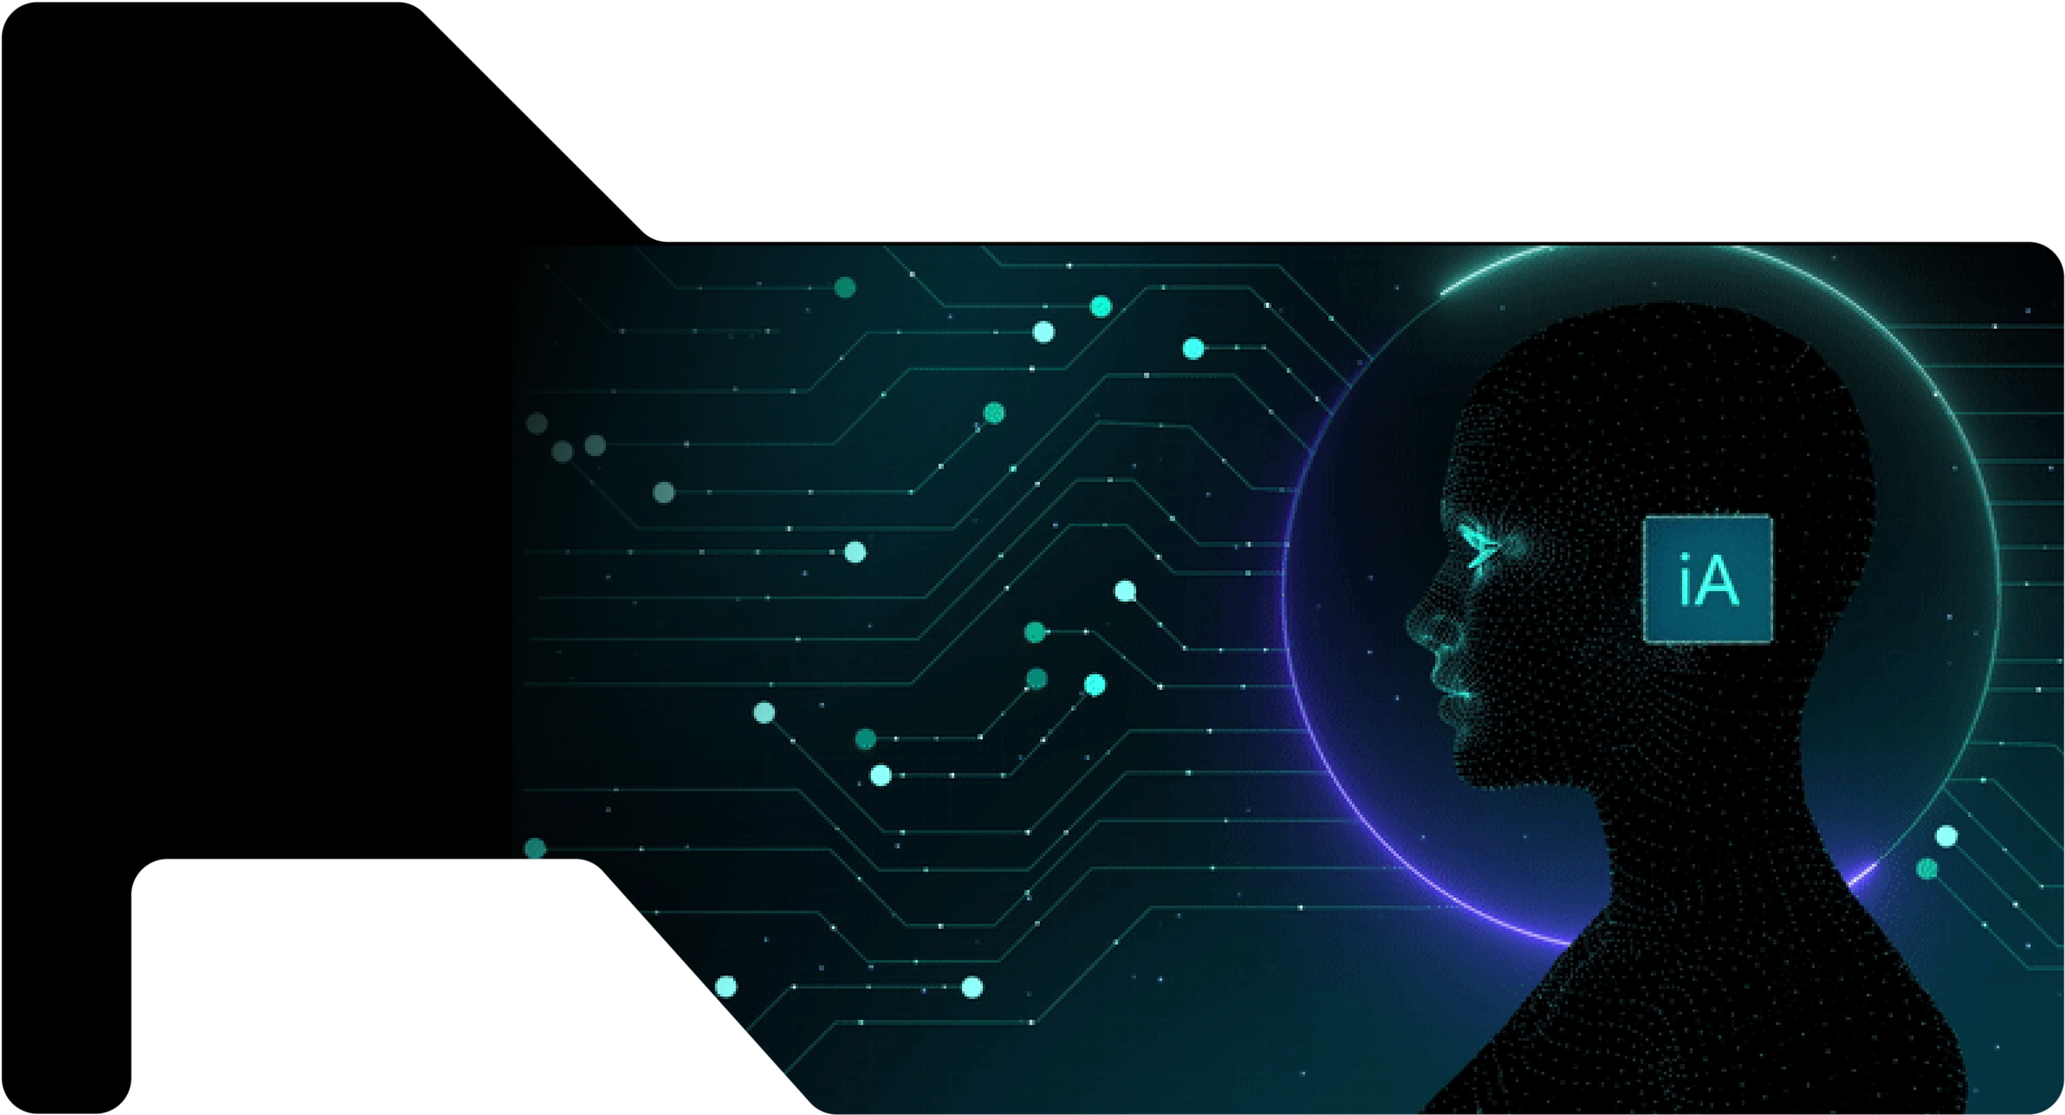
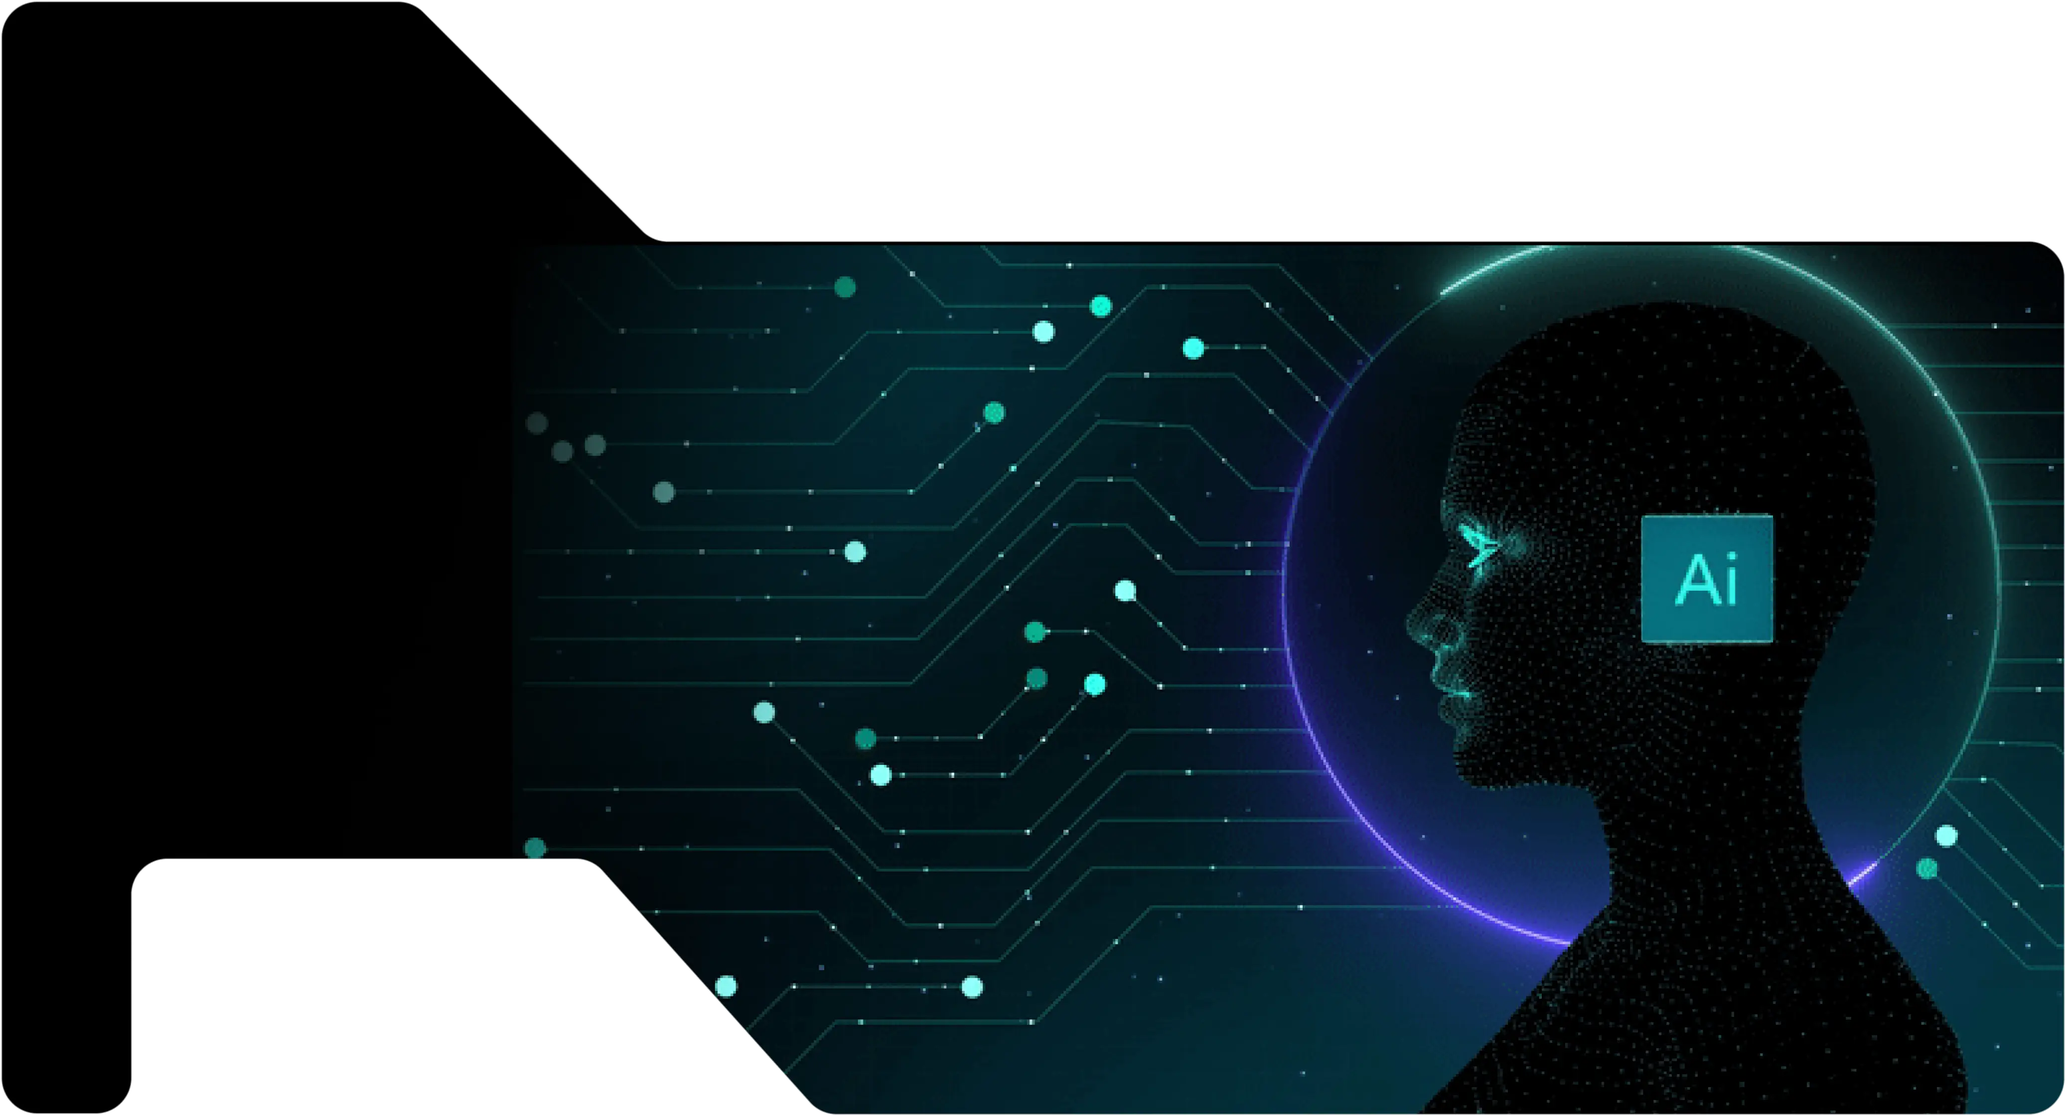
herosection img change

Changed region(s): [[0.7782, 0.4623, 0.8405, 0.5855]]

diff --git a/src/components/TokenE.jsx b/src/components/TokenE.jsx
@@ -11,7 +11,7 @@ const TokenE = () => {
       <div className=" absolute right-0 bottom-0 z-[-1] max-w-[40px] sm:max-w-[60px]  ">
         <img src={BlockChainEllips} alt="img" />
       </div>
-      <div className="bg-[#02CDCF] w-[228px] h-[140px]  lg:h-[160px]  absolute left-[-10%] bottom-0 blur-[180px] z-[-1] "></div>
+      <div className="bg-[#02CDCF] w-[228px] h-[140px]  lg:h-[140px]  absolute left-[-10%] bottom-0 blur-[185px] z-[-1] "></div>
       <div className="bg-[#02CDCF] w-[200px] h-[140px]  lg:h-[160px]  absolute right-0 top-[35%] blur-[180px] z-[-1] "></div>
       <div className="bg-[#02CDCF] w-[200px] h-[140px]  lg:h-[160px]  absolute right-0 bottom-[-10%] blur-[180px] z-[-2] hidden  sm:block"></div>
       <div className="max-w-[1320px] px-3 mx-auto pb-0 pt-12 sm:pt-16  lg:py-20">
@@ -30,7 +30,7 @@ const TokenE = () => {
           </div>
           <div className="w-full md:w-6/12 px-3 ">
             <div className="relative overflow-y-scroll overflow_hidden h-[529px] ">
-              <div className=" absolute max-[400px]:left-[-2%] left-[3.3%] md:left-[5%] lg:left-[3.35%] xl:left-0 top-0 bottom-0 rounded-xl bg-[#02CDCF] w-2 max-[350px]:h-[1980px] max-[450px]:h-[1740px] h-[1000px] sm:h-[1250px] md:h-[1700px]  xl:h-[1300px] ms-4"></div>
+              <div className=" absolute max-[400px]:left-[-2%] left-[3.3%] md:left-[6%] lg:left-[3.35%] xl:left-0 top-0 bottom-0 rounded-xl bg-[#02CDCF] w-2 max-[350px]:h-[1980px] max-[450px]:h-[1740px] h-[1000px] sm:h-[1250px] md:h-[1900px]  xl:h-[1250px] ms-4"></div>
               <div className="max-[400px]:ps-16 ps-20 ">
                 {" "}
                 <h3 className=" ff-Recharge font-bold text-lg sm:text-xl md:text-2xl text-white leading-[24px] sm:leading-[31.2px] hover:text-[#02CDCF] duration-300 ">
@@ -45,15 +45,14 @@ const TokenE = () => {
                   convenience and flexibility of a token-based payment system.
                 </p>
                 <h3 className=" ff-Recharge font-bold text-lg sm:text-xl md:text-2xl text-white leading-[24px] sm:leading-[31.2px] pt-12 md:pt-16 hover:text-[#02CDCF] duration-300">
-                  Purchasing Nexai Products
+                  Accessing Exclusive Content
                 </h3>
                 <p className=" font-Poppins font-normal text-sm sm:text-base text-[#B4B9B9] leading-[22px] sm:leading-[25.6px]  pt-4 relative before:top-[41%] max-[435px]:before:left-[-60px] before:left-[-53px] sm:before:left-[-50px] lg:before:left-[-57px]  xl:before:left-[-13%] before:absolute before:w-6 before:h-6 before:rounded-2xl before:bg-white before:z-10 hover:before:bg-[#B4B4B4] before:duration-300 ">
-                  Nex AI tokens will be the primary currency for acquiring
-                  Nexai's extensive range of software solutions, hardware
-                  devices, including drones and sensors, and other smart home
-                  products available on the Nexai marketplace. Users can
-                  confidently make purchases using Nex tokens, enjoying the
-                  convenience and flexibility of a token-based payment system.
+                  By holding Nex AI tokens, users will gain privileged access to
+                  exclusive content within the Nexai platform. These tokens will
+                  unlock premium features, advanced functionalities, and
+                  specialized services, enabling users to fully explore and
+                  enjoy the enhanced capabilities of Nexai's ecosystem.
                 </p>
                 <h3 className=" ff-Recharge font-bold text-lg sm:text-xl md:text-2xl text-white leading-[24px] sm:leading-[31.2px] pt-12 md:pt-16 hover:text-[#02CDCF] duration-300">
                   Purchasing Nexai Products
@@ -67,15 +66,14 @@ const TokenE = () => {
                   convenience and flexibility of a token-based payment system.
                 </p>
                 <h3 className=" ff-Recharge font-bold text-lg sm:text-xl md:text-2xl text-white leading-[24px] sm:leading-[31.2px] pt-12 md:pt-16 hover:text-[#02CDCF] duration-300">
-                  Purchasing Nexai Products
+                  Accessing Exclusive Content
                 </h3>
                 <p className=" font-Poppins font-normal text-sm sm:text-base text-[#B4B9B9] leading-[22px] sm:leading-[25.6px]  pt-4 relative before:top-[41%] max-[435px]:before:left-[-60px] before:left-[-53px] sm:before:left-[-50px] lg:before:left-[-57px]  xl:before:left-[-13%] before:absolute before:w-6 before:h-6 before:rounded-2xl before:bg-white before:z-10 hover:before:bg-[#B4B4B4] before:duration-300">
-                  Nex AI tokens will be the primary currency for acquiring
-                  Nexai's extensive range of software solutions, hardware
-                  devices, including drones and sensors, and other smart home
-                  products available on the Nexai marketplace. Users can
-                  confidently make purchases using Nex tokens, enjoying the
-                  convenience and flexibility of a token-based payment system.
+                  By holding Nex AI tokens, users will gain privileged access to
+                  exclusive content within the Nexai platform. These tokens will
+                  unlock premium features, advanced functionalities, and
+                  specialized services, enabling users to fully explore and
+                  enjoy the enhanced capabilities of Nexai's ecosystem.
                 </p>
                 <h3 className=" ff-Recharge font-bold text-lg sm:text-xl md:text-2xl text-white leading-[24px] sm:leading-[31.2px] pt-12 md:pt-16 hover:text-[#02CDCF] duration-300 ">
                   Purchasing Nexai Products

diff --git a/src/components/Features.jsx b/src/components/Features.jsx
@@ -1,5 +1,5 @@
 import React from "react";
-import { Clock, ClockPlus } from "./common/SvgExport";
+import { Clock, ClockPlus, FeatureseSvg, Message } from "./common/SvgExport";
 const Features = () => {
   return (
     <div id="Features" className="px-3 lg:px-12 py-12 sm:py-16  md:py-20">
@@ -11,7 +11,7 @@ const Features = () => {
           ability to engage in natural, fluent conversations in over 15
           languages,
         </p>
-        <div className="flex flex-row flex-wrap -mx-3 overflow-y-scroll overflow_hidden max-h-[500px]  pt-7 sm:pt-9 md:pt-12">
+        <div className="flex flex-row flex-wrap -mx-3 overflow-y-scroll overflow_hidden max-h-[500px] pt-7 sm:pt-9 md:pt-12">
           <div className="w-full lg:w-6/12 px-3 ">
             {" "}
             <div className=" group cursor-pointer max-w-[364px] bg-white rounded-2xl p-4 sm:p-6 md:p-[30px_24px_56px_24px] mx-auto lg:mx-0">
@@ -32,17 +32,16 @@ const Features = () => {
             <div className="h-[150px] md:h-[270px]"></div>
             <div className="group cursor-pointer max-w-[364px] bg-white rounded-2xl p-4 sm:p-6 md:p-[30px_24px_56px_24px] mx-auto lg:mx-0">
               <div>
-                <Clock />
+                <Message />
               </div>
               <h3 className=" ff-Recharge font-bold text-[#0B0A0A]  text-base sm:text-lg md:text-xl leading-[25px] md:leading-[32px] pt-4 sm:pt-[30px] group-hover:text-[#02CDCF] duration-300">
-                Remote Access and File Management
+                Autonomous and Natural Language Communication
               </h3>
               <p className=" font-Poppins font-normal text-black text-sm sm:text-base leading-[22px] sm:leading-[25.6px] opacity-70 pt-[10px]">
                 {" "}
-                Imagine you're at work, and you realize you forgot to bring an
-                important file stored on your desktop computer at home. No
-                worries! Simply open the Nexai app on your phone, initiate a
-                call with Nexai, and request access to your computer.{" "}
+                Nexai goes beyond standard home assistants by taking proactive
+                initiatives and engaging in natural language conversations. It
+                communicates with you as if you're talking to a friend,
               </p>
             </div>{" "}
             <div className="h-[200px] md:h-[270px]"></div>
@@ -69,7 +68,8 @@ const Features = () => {
                 <ClockPlus />
               </div>
               <h3 className=" ff-Recharge font-bold text-[#0B0A0A]  text-base sm:text-lg md:text-xl leading-[25px] md:leading-[32px] pt-4 sm:pt-[30px] group-hover:text-[#02CDCF] duration-300">
-                Real-time Home Monitoring{" "}
+                {" "}
+                Real-time Home Monitoring
               </h3>
               <p className=" font-Poppins font-normal text-black text-sm sm:text-base leading-[22px] sm:leading-[25.6px] opacity-70 pt-[10px]">
                 While you're out with your family, you may wonder if you
@@ -82,17 +82,18 @@ const Features = () => {
             <div className="h-[150px] md:h-[270px]"></div>
             <div className=" group cursor-pointer max-w-[364px] bg-white rounded-2xl p-4 sm:p-6 md:p-[30px_24px_56px_24px] mx-auto lg:me-0 lg:ms-auto">
               <div>
-                <ClockPlus />
+                <FeatureseSvg />
               </div>
               <h3 className=" ff-Recharge font-bold text-[#0B0A0A]  text-base sm:text-lg md:text-xl leading-[25px] md:leading-[32px] pt-4 sm:pt-[30px] group-hover:text-[#02CDCF] duration-300">
-                Real-time Home Monitoring{" "}
+                Intelligent Contextual Awareness
               </h3>
               <p className=" font-Poppins font-normal text-black text-sm sm:text-base leading-[22px] sm:leading-[25.6px] opacity-70 pt-[10px]">
-                While you're out with your family, you may wonder if you
-                remembered to turn off the stove. Thanks to Nexai, this is no
-                longer a concern. Using the Nexai app, you can initiate a video
-                call with Nexai and activate the mini drone stationed in your
-                home.
+                {" "}
+                Nexai utilizes the hardware sensors placed throughout your home
+                to understand your location and deliver relevant information or
+                actions. For instance, if you're in the bedroom and there's a
+                smart TV present, Nexai will automatically display on the TV
+                screen.
               </p>
             </div>
           </div>

diff --git a/src/components/Footer.jsx b/src/components/Footer.jsx
@@ -38,13 +38,13 @@ const Footer = () => {
           <div className="w-full md:w-5/12 px-3  pt-6 md:pt-0">
             <div className="flex flex-row flex-wrap -mx-3">
               <div className="w-6/12 px-3">
-                <p className="ff-Recharge font-bold text-base sm:text-lg text-white leading-[21.6px]">
+                <p className="ff-Recharge font-bold text-base sm:text-[17px] lg:text-lg text-white leading-[21.6px]">
                   Quick links
                 </p>
                 <ul>
                   <li className="pt-3 sm:pt-5">
                     <a
-                      href="#!"
+                      href="#Home"
                       className="ff-Recharge font-bold text-sm sm:text-base text-white leading-[21.6px] opacity-70 border-transparent border-y-[1px] rounded-sm hover:border-[#02CDCF] duration-300 ease-linear hover:text-[#02CDCF] py-1 "
                     >
                       Home
@@ -52,7 +52,7 @@ const Footer = () => {
                   </li>
                   <li className="pt-3 sm:pt-5">
                     <a
-                      href="#!"
+                      href="#Features"
                       className="ff-Recharge font-bold text-sm sm:text-base text-white leading-[21.6px] opacity-70 border-transparent border-y-[1px] rounded-sm hover:border-[#02CDCF] duration-300 ease-linear hover:text-[#02CDCF] py-1"
                     >
                       Features
@@ -60,7 +60,7 @@ const Footer = () => {
                   </li>
                   <li className="pt-3 sm:pt-5">
                     <a
-                      href="#!"
+                      href="#MarketPlace"
                       className="ff-Recharge font-bold text-sm sm:text-base text-white leading-[21.6px] opacity-70 border-transparent border-y-[1px] rounded-sm hover:border-[#02CDCF] duration-300 ease-linear hover:text-[#02CDCF] py-1"
                     >
                       Marketplace
@@ -68,7 +68,7 @@ const Footer = () => {
                   </li>
                   <li className="pt-3 sm:pt-5">
                     <a
-                      href="#!"
+                      href="#Token"
                       className="ff-Recharge font-bold text-sm sm:text-base text-white leading-[21.6px] opacity-70 border-transparent border-y-[1px] rounded-sm hover:border-[#02CDCF] duration-300 ease-linear hover:text-[#02CDCF] py-1"
                     >
                       Tokens
@@ -76,7 +76,7 @@ const Footer = () => {
                   </li>
                   <li className="pt-3 sm:pt-5">
                     <a
-                      href="#!"
+                      href="#AndMore"
                       className="ff-Recharge font-bold text-sm sm:text-base text-white leading-[21.6px] opacity-70 border-transparent border-y-[1px] rounded-sm hover:border-[#02CDCF] duration-300 ease-linear hover:text-[#02CDCF] py-1"
                     >
                       NexChat
@@ -84,7 +84,7 @@ const Footer = () => {
                   </li>
                   <li className="pt-3 sm:pt-5">
                     <a
-                      href="#!"
+                      href="#About"
                       className="ff-Recharge font-bold text-sm sm:text-base text-white leading-[21.6px] opacity-70 border-transparent border-y-[1px] rounded-sm hover:border-[#02CDCF] duration-300 ease-linear hover:text-[#02CDCF] py-1"
                     >
                       About
@@ -93,7 +93,7 @@ const Footer = () => {
                 </ul>
               </div>
               <div className="w-6/12 px-3">
-                <p className="ff-Recharge font-bold text-base sm:text-lg text-white leading-[21.6px]">
+                <p className="ff-Recharge font-bold text-base sm:text-[17px] lg:text-lg text-white leading-[21.6px]">
                   Information's
                 </p>
                 <ul>

diff --git a/src/components/common/SvgExport.jsx b/src/components/common/SvgExport.jsx
@@ -85,6 +85,41 @@ export const Clock = () => {
     </svg>
   );
 };
+export const Message = () => {
+  return (
+    <svg
+      width="51"
+      height="46"
+      viewBox="0 0 51 46"
+      fill="none"
+      xmlns="http://www.w3.org/2000/svg"
+    >
+      <path
+        className=" group-hover:stroke-[#02CDCF] duration-300"
+        d="M35.6242 39.5715H23.249V30.4287H38.9993V21.2859H47.9994V39.5715H42.3743L38.9993 43L35.6242 39.5715Z"
+        stroke="black"
+        strokeWidth="4.57138"
+        strokeLinecap="round"
+        strokeLinejoin="round"
+      />
+      <path
+        className=" group-hover:stroke-[#02CDCF] duration-300"
+        d="M3 3H39.0006V30.4283H17.6252L13.1252 34.9997L8.6251 30.4283H3V3Z"
+        stroke="black"
+        strokeWidth="4.57138"
+        strokeLinecap="round"
+        strokeLinejoin="round"
+      />
+      <path
+        className=" group-hover:stroke-[#02CDCF] duration-300"
+        d="M19.8756 16.7145H21.0006M27.7508 16.7145H28.8758M12.0005 16.7145H13.1255"
+        stroke="black"
+        strokeWidth="4.57138"
+        strokeLinecap="round"
+      />
+    </svg>
+  );
+};
 export const ClockPlus = () => {
   return (
     <svg
@@ -108,6 +143,26 @@ export const ClockPlus = () => {
         className=" group-hover:fill-[#02CDCF] duration-300"
         d="M36.355 6.60566V0.207031H31.9251V6.60566H25.2801V10.8714H31.9251V17.27H36.355V10.8714H43V6.60566H36.355Z"
         fill="black"
+      />
+    </svg>
+  );
+};
+export const FeatureseSvg = () => {
+  return (
+    <svg
+      width="44"
+      height="44"
+      viewBox="0 0 44 44"
+      fill="none"
+      xmlns="http://www.w3.org/2000/svg"
+    >
+      <path
+        className=" group-hover:stroke-[#02CDCF] duration-300"
+        d="M17.5556 6.44444L22 2M13.1111 30.8889L30.8889 13.1111M22 42L26.4444 37.5556M32 37.5556C33.4734 37.5556 34.8865 36.9702 35.9284 35.9284C36.9702 34.8865 37.5556 33.4734 37.5556 32C37.5556 30.5266 36.9702 29.1135 35.9284 28.0716C34.8865 27.0298 33.4734 26.4444 32 26.4444C30.5266 26.4444 29.1135 27.0298 28.0716 28.0716C27.0298 29.1135 26.4444 30.5266 26.4444 32C26.4444 33.4734 27.0298 34.8865 28.0716 35.9284C29.1135 36.9702 30.5266 37.5556 32 37.5556ZM12 17.5556C13.4734 17.5556 14.8865 16.9702 15.9284 15.9284C16.9702 14.8865 17.5556 13.4734 17.5556 12C17.5556 10.5266 16.9702 9.1135 15.9284 8.07163C14.8865 7.02976 13.4734 6.44444 12 6.44444C10.5266 6.44444 9.1135 7.02976 8.07163 8.07163C7.02976 9.1135 6.44444 10.5266 6.44444 12C6.44444 13.4734 7.02976 14.8865 8.07163 15.9284C9.1135 16.9702 10.5266 17.5556 12 17.5556ZM7.55556 42C9.02898 42 10.4421 41.4147 11.4839 40.3728C12.5258 39.3309 13.1111 37.9179 13.1111 36.4444C13.1111 34.971 12.5258 33.5579 11.4839 32.5161C10.4421 31.4742 9.02898 30.8889 7.55556 30.8889C6.08213 30.8889 4.66905 31.4742 3.62718 32.5161C2.58532 33.5579 2 34.971 2 36.4444C2 37.9179 2.58532 39.3309 3.62718 40.3728C4.66905 41.4147 6.08213 42 7.55556 42ZM36.4444 13.1111C37.9179 13.1111 39.3309 12.5258 40.3728 11.4839C41.4147 10.4421 42 9.02898 42 7.55556C42 6.08213 41.4147 4.66905 40.3728 3.62718C39.3309 2.58532 37.9179 2 36.4444 2C34.971 2 33.5579 2.58532 32.5161 3.62718C31.4742 4.66905 30.8889 6.08213 30.8889 7.55556C30.8889 9.02898 31.4742 10.4421 32.5161 11.4839C33.5579 12.5258 34.971 13.1111 36.4444 13.1111Z"
+        stroke="black"
+        strokeWidth="3.55556"
+        strokeLinecap="round"
+        strokeLinejoin="round"
       />
     </svg>
   );

diff --git a/src/components/Powered.jsx b/src/components/Powered.jsx
@@ -9,7 +9,7 @@ const Powered = () => {
           <div className="w-full md:w-6/12 px-3 lg:pe-[38px]">
             <div data-aos="zoom-in" className="max-w-[612px] mx-auto relative">
               <img className="w-full" src={poweredImg} alt="powered" />
-              <div className="bg-[#02CDCF] w-[228px] h-[140px]  lg:h-[160px]  absolute right-[20%] top-[40%] blur-[170px] z-[-1] "></div>
+              <div className="bg-[#02CDCF] w-[228px] h-[140px]  lg:h-[160px]  absolute right-[20%] top-[40%] blur-[170px] "></div>
             </div>
           </div>
           <div className="w-full md:w-6/12 px-3 pt-6 md:pt-0 lg:ps-[38px]">

diff --git a/src/components/HeroSection.jsx b/src/components/HeroSection.jsx
@@ -5,7 +5,7 @@ import Button from "./common/Button";
 const HeroSection = () => {
   return (
     <div className="bg-[#040404] px-4 sm:px-6 md:px-8 pb-14 relative z-10">
-      <div className=" bg-[url(../src/assets/image/HeroMainImg.webp)] h-screen sm:min-h-[810px] bg-no-repeat bg-cover bg-size flex flex-col object-cover relative z-10">
+      <div className=" max-md:bg-[url(../src/assets/image/HerosmallImg.webp)] md:bg-[url(../src/assets/image/HeroMainImg.webp)] h-screen sm:min-h-[810px] bg-no-repeat bg-cover bg-size max-md:bg-right flex flex-col object-cover relative z-10">
         <div>
           <NextAiNav />
         </div>

diff --git a/src/App.css b/src/App.css
@@ -21,10 +21,6 @@
     font-family: "Neuropolitical";
 }
 
-.bg-size {
-    background-size: 100% 100%;
-}
-
 .slick-slide {
     padding-left: 5px !important;
     padding-right: 5px !important;
@@ -47,6 +43,12 @@
 @keyframes pulsegardiant {
     0% {
         box-shadow: 0 0 #02CDCF;
+    }
+}
+
+@media (min-width:768px) {
+    .bg-size {
+        background-size: 100% 100%;
     }
 }
 

diff --git a/src/components/NextAiNav.jsx b/src/components/NextAiNav.jsx
@@ -13,7 +13,7 @@ const NextAiNav = () => {
   }
   return (
     <>
-      <div className="max-w-[900px] sm:px-3 lg:ms-auto lg:me-[120px] pt-[31px]">
+      <div className="max-w-[775px] 2xl:max-w-[900px] sm:px-3 lg:ms-auto lg:me-[120px] pt-[31px]">
         <nav className="flex justify-between items-center">
           <div
             className={`${
